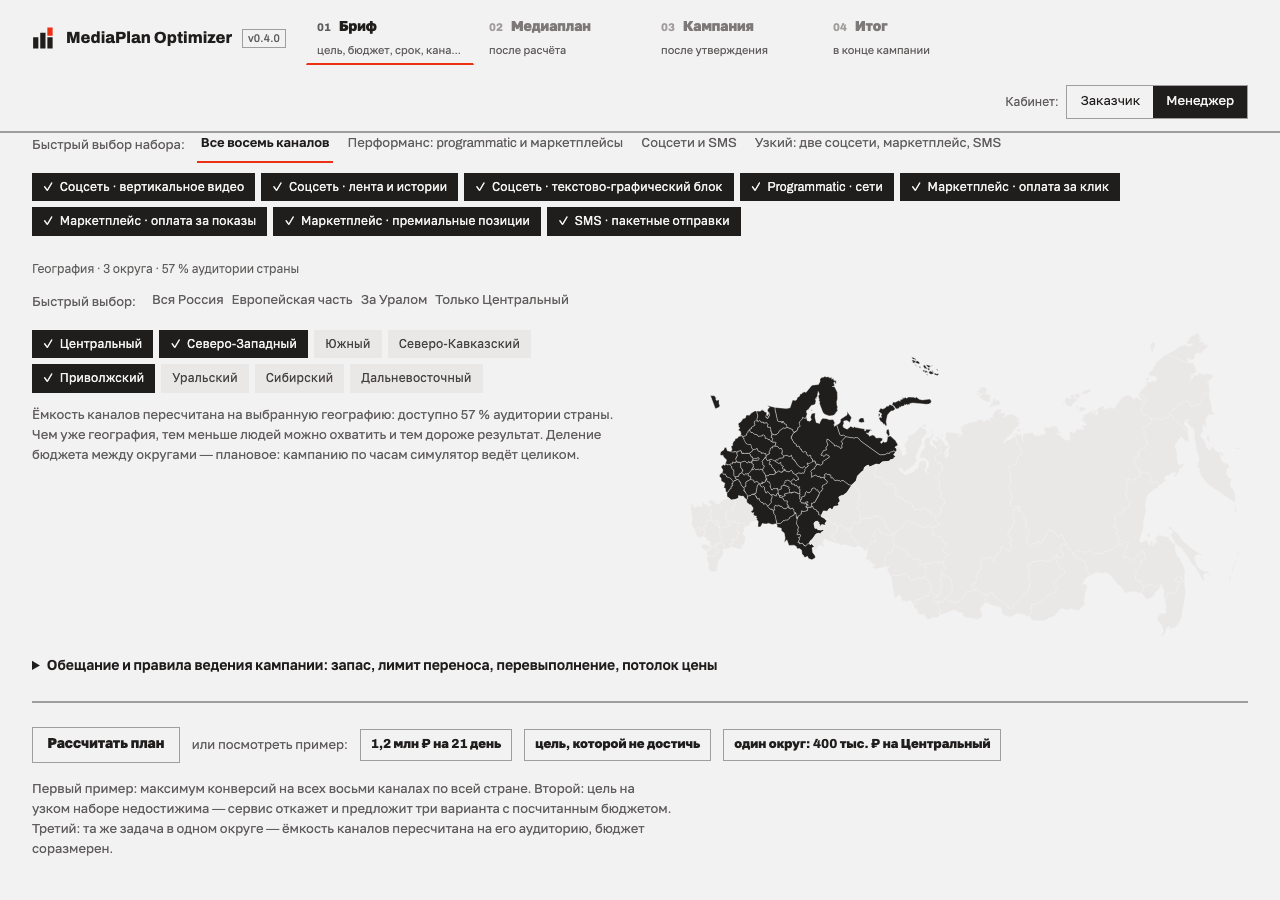
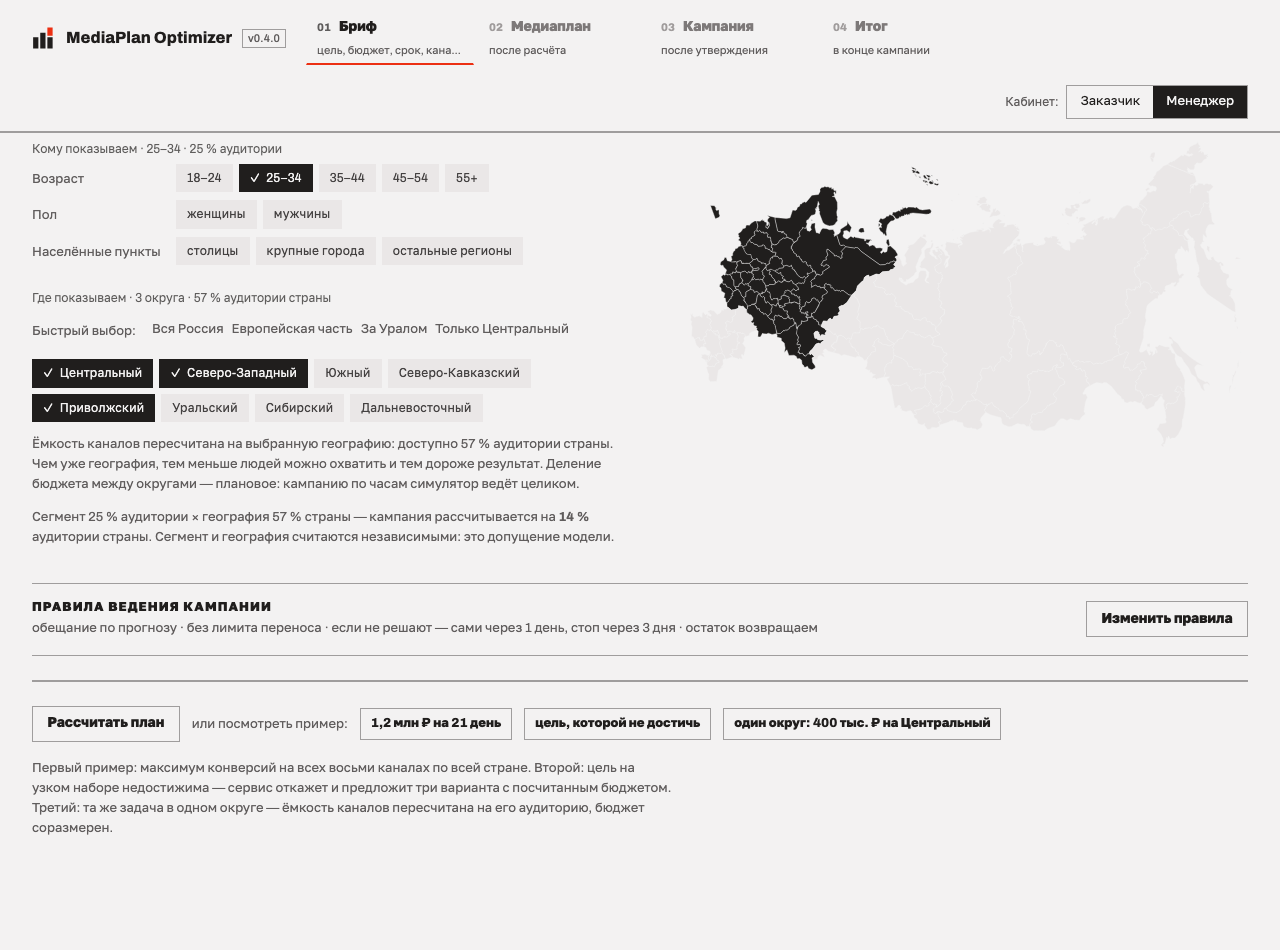
fix(app): карта рядом с сегментом, подвал без строки о прототипе
Блоки «Кому показываем» и «Где показываем» стоят в одной сетке, карта занимает правую колонку целиком и начинается на уровне сегмента. Из подвала убрана фраза про прототип. Снимки географии пересняты, добавлен снимок окна правил.

diff --git a/app/static/index.html b/app/static/index.html
@@ -264,12 +264,12 @@
     <div class="presets"><span class="muted">Быстрый выбор набора:</span><div id="preset-chips"></div></div>
     <div class="tags" id="channel-chips"></div>
   </div>
-  <div class="field" style="margin-top:24px" id="f-target"><label>Кому показываем · <span id="target-count"></span></label>
-    <div id="target-axes"></div>
-  </div>
-  <div class="field" style="margin-top:24px" id="f-geo">
-    <div class="geo">
-      <div>
+  <div class="geo" style="margin-top:24px">
+    <div>
+      <div class="field" id="f-target"><label>Кому показываем · <span id="target-count"></span></label>
+        <div id="target-axes"></div>
+      </div>
+      <div class="field" id="f-geo" style="margin-top:24px">
         <label style="display:block">Где показываем · <span id="geo-count"></span></label>
         <div class="presets"><span class="muted">Быстрый выбор:</span><div id="geo-presets"></div></div>
         <div class="tags" id="geo-chips"></div>
@@ -277,8 +277,8 @@
         <p class="muted" id="audience-note" style="margin-top:8px"></p>
         <p class="err" id="geo-warn" style="margin-top:8px" hidden></p>
       </div>
-      <div class="map" id="geo-map"></div>
     </div>
+    <div class="map" id="geo-map"></div>
   </div>
   <div class="rules-row" id="rules-row">
     <div><h6 style="margin-bottom:4px">Правила ведения кампании</h6><p class="muted" id="rules-summary" style="margin:0"></p></div>
@@ -391,7 +391,7 @@
 <footer class="foot">
   <div class="foot-top">
     <div class="foot-brand"><img class="logo" src="/static/logo.svg" alt="" width="22" height="22">MediaPlan Optimizer<span class="ver" id="foot-version">—</span></div>
-    <p class="foot-lead">Планирование и ведение рекламных кампаний: план по каналам с прогнозом и разбросом, кампания по часам, решения по переносам бюджета. Прототип: каналы абстрактные, рынок — симулятор, цифры не выдаются за статистику площадок.</p>
+    <p class="foot-lead">Планирование и ведение рекламных кампаний: план по каналам с прогнозом и разбросом, кампания по часам, решения по переносам бюджета.</p>
   </div>
   <div class="foot-cols">
     <div><h6>Откуда числа</h6><p>Бенчмарки каналов — из публичных источников со ссылкой у каждого значения (<code>config/benchmarks.yaml</code>). Население округов — сводка данных Росстата, карта — Natural Earth (public domain).</p></div>

diff --git a/README.md b/README.md
@@ -220,7 +220,7 @@ r раз, часть остатка не тратится; доля выбира
 целиком и региональных цен не моделирует; запрос на региональную модель мира
 записан в `docs/cabinet_changes.md`.
 
-![Бриф: выбор округов тегами и на карте России](docs/figures/cabinet/geo-brief-selected.png)
+![Бриф: сегмент аудитории и выбор округов тегами и на карте России](docs/figures/cabinet/geo-brief-selected.png)
 
 На экране плана карта показывает деление бюджета по округам, а бегунки рядом
 позволяют поделить его руками.
@@ -256,6 +256,8 @@ r раз, часть остатка не тратится; доля выбира
 - **Остановить кампанию через M часов.** Кампания встаёт: плеер дальше не
   идёт, пока решение не примут. По умолчанию 72 часа. Второй порог должен быть
   больше первого, иначе кабинет не даст сохранить правила.
+
+![Окно правил ведения кампании](docs/figures/cabinet/rules-modal.png)
 
 Ноль выключает правило. Сейчас это правило кабинета поверх готового прогона:
 он применяет решение тем же вызовом `/api/run/{id}/decide`, что и человек.

diff --git a/docs/materials.md b/docs/materials.md
@@ -64,4 +64,5 @@
 | `manager-01-brief.png` … `manager-04-summary.png`, `manager-02-refusal.png` | кабинет менеджера: все метрики, экран отказа, кампания с условиями прогона и карточками решений, итог со стендами | технические слайды, слайд «два кабинета» |
 | `player.gif` | кабинет менеджера, плеер: остановка на карточке, решение, шок дня 11 | слайд про ведение по часам |
 | `summary-short.png` | кабинет заказчика, итог без шапки: абзац «Коротко» и плитки | README, слайд «обещали и получили» |
-| `geo-brief-selected.png`, `geo-plan.png`, `geo-sliders.png` | география: выбор округов на карте, бюджет по округам, ручные бегунки по каналам | слайд про географию и ручную правку |
+| `geo-brief-selected.png`, `geo-plan.png`, `geo-sliders.png` | сегмент и география: выбор аудитории и округов на карте, бюджет по округам, ручные бегунки по каналам | слайд про географию и ручную правку |
+| `rules-modal.png` | окно правил ведения: обещание, полномочия автоматики, пороги молчания, режим бюджета | слайд про правила и эскалацию |
